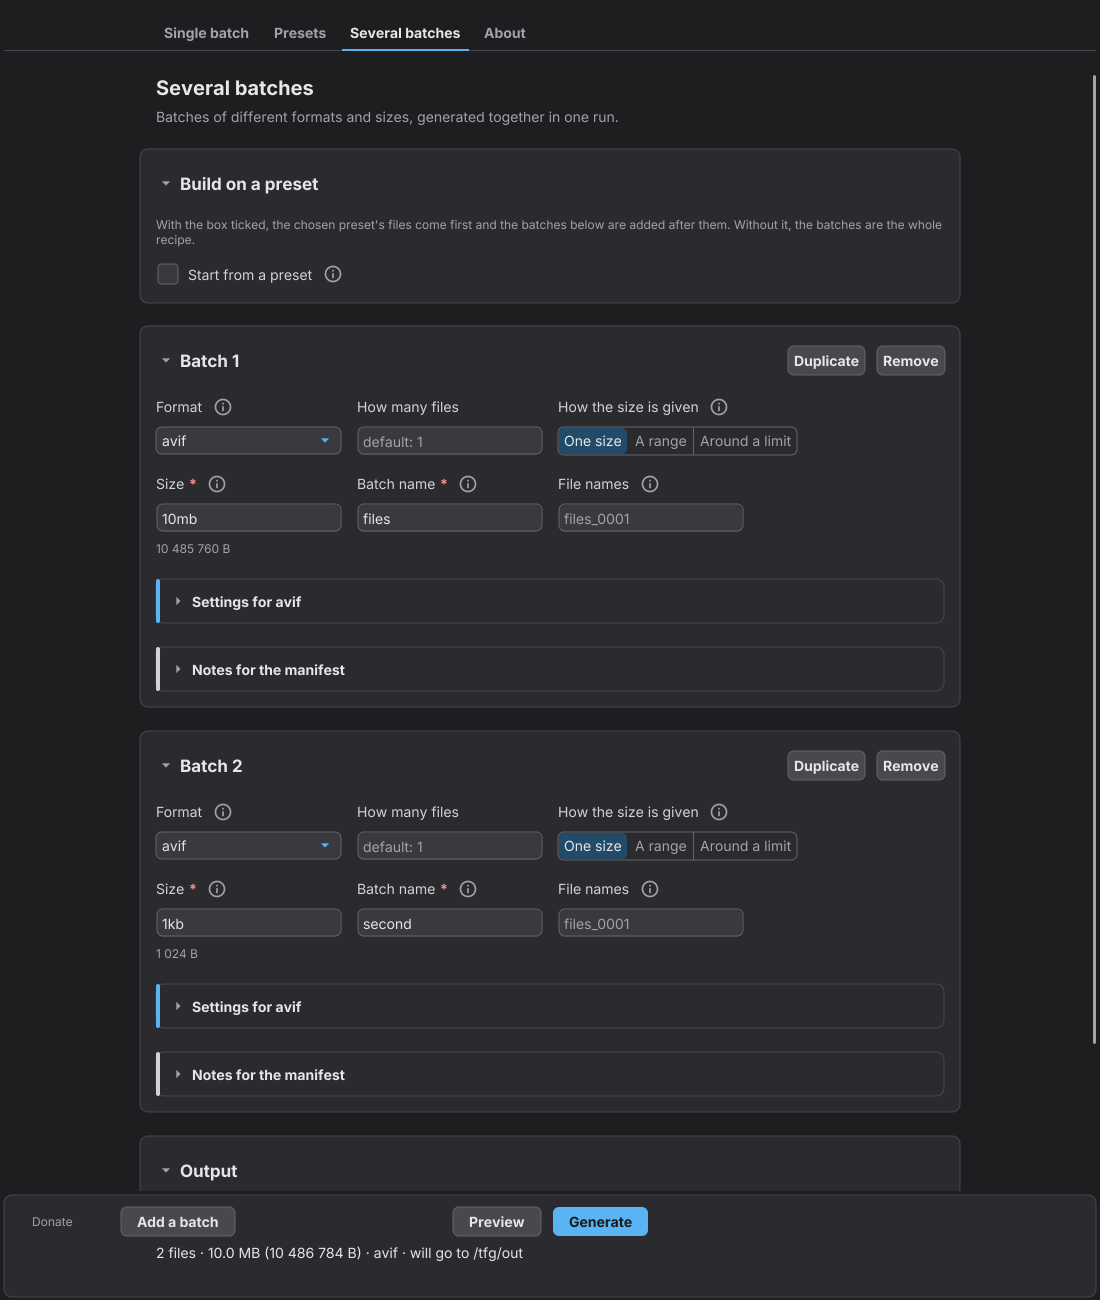
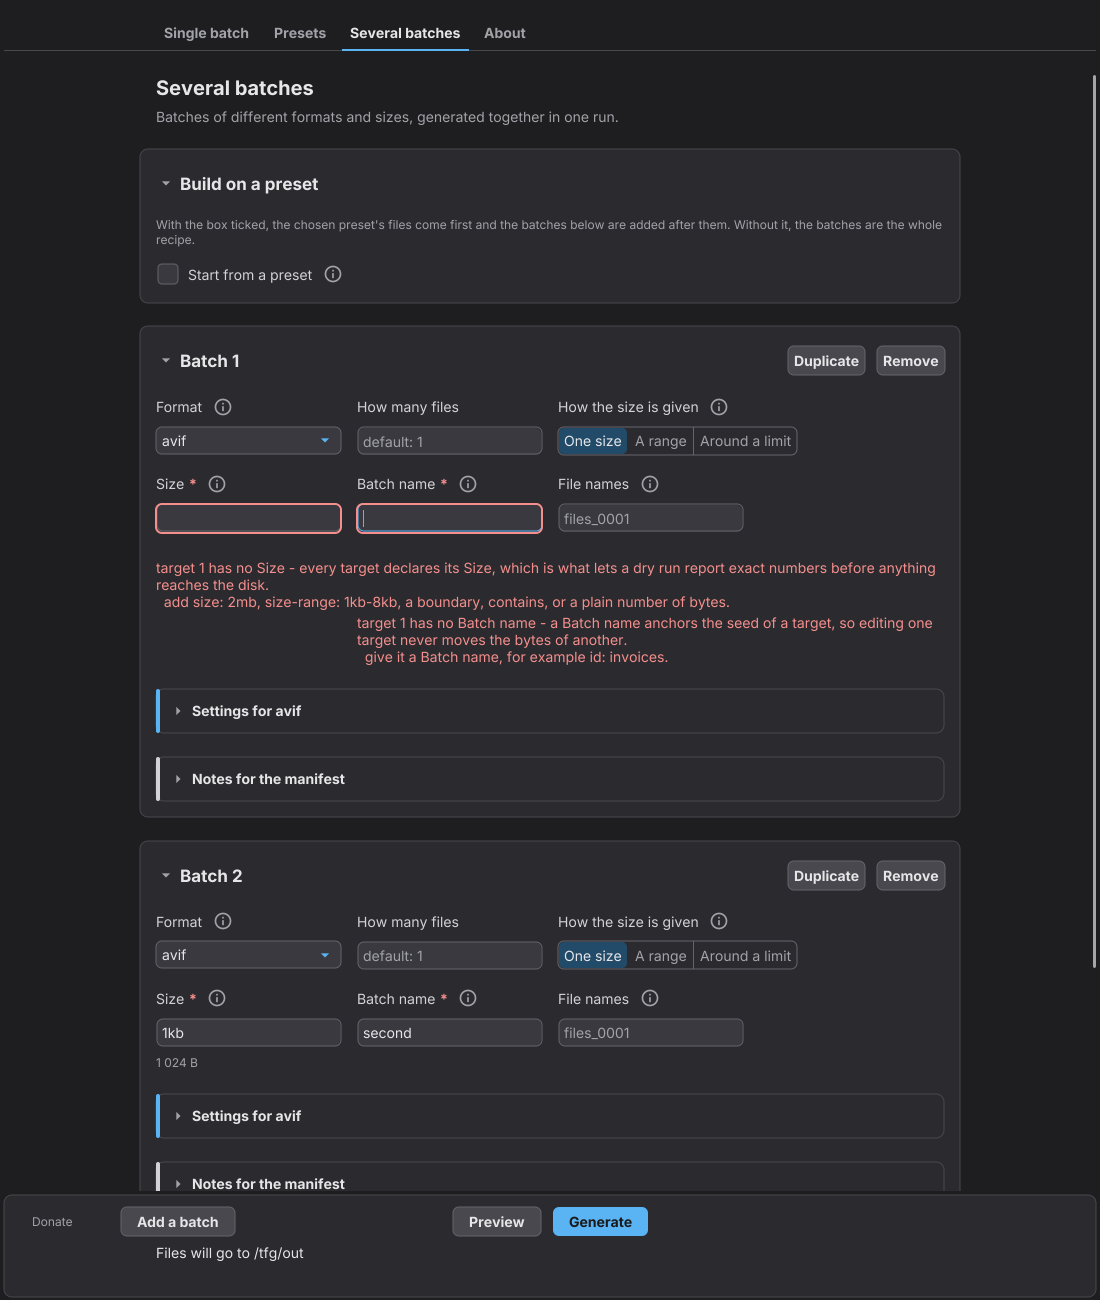
guard: the pictures named after a refusal show one again, and a nil field is reported rather than dereferenced
The batch screen opens with its first batch filled in since #125, so the
two scenes named recipe-refused pressed Preview on a recipe with nothing
wrong in it and stored a successful preview under that name. The scenes
now empty the first batch, and the runner refuses to store or compare a
picture named after a refusal whose tree carries no refusal. Four
comments still describing fields two to a row now describe the grid.

Found by CodeRabbit on #126.

diff --git a/internal/guard/screenpixels_test.go b/internal/guard/screenpixels_test.go
@@ -482,7 +482,16 @@ func screenScenes() []screenScene {
 		// size. Both marks belong to the first batch and both have to appear,
 		// which is the rule reported on 2026-08-18 - every bad box, not the
 		// first one.
+		//
+		// EMPTIED rather than assumed empty. The screen opens with its first
+		// batch filled in since #125, so from that day this scene pressed
+		// Preview on a recipe with nothing wrong in it and stored a picture of
+		// a successful preview under the name "refused" - green, and about
+		// nothing. Found by an outside review of #126 and confirmed on the
+		// stored tree: no refusal in it. The runner now refuses to store or
+		// compare a picture named after a refusal that shows none.
 		{name: "recipe-refused", tab: text.TabRecipe(), set: func(t *testing.T, s scene) {
+			emptyTheFirstBatch(t, s.tab)
 			pressNamed(t, s.tab, text.ButtonPreview())
 		}},
 		// One batch filled in and one not, so the marks are in one block and the
@@ -500,6 +509,9 @@ func screenScenes() []screenScene {
 			pressNamed(t, s.tab, text.ButtonAddBatch())
 			fillField(t, s.tab, text.FieldTargetID(), "second")
 			fillField(t, s.tab, text.FieldSize(), "1kb")
+			// The same repair as the scene above: the first batch arrives
+			// filled in, so it has to be emptied to be the one refused.
+			emptyTheFirstBatch(t, s.tab)
 			pressNamed(t, s.tab, text.ButtonPreview())
 		}},
 		// What an archive holds, which is the one nested repeating thing in this
@@ -577,6 +589,15 @@ func TestEveryScreenStillDrawsItsStoredPicture(t *testing.T) {
 	for _, sc := range screenScenes() {
 		t.Run(sc.name, func(t *testing.T) {
 			got, markup := renderScene(t, sc)
+			// Before anything is compared OR written, so a scene that stopped
+			// reaching its state cannot store a new reference of the wrong
+			// one. See showsARefusal.
+			if strings.Contains(sc.name, "refused") && !showsARefusal(markup) {
+				t.Fatalf("the picture %q is named after a refusal and the screen it drew refuses nothing.\n"+
+					"Reason: a scene that stops reaching its state stays green honestly - this one\n"+
+					"stored a successful preview as \"refused\" for a whole pull request (#125).\n"+
+					"What to do: make the scene put something wrong on the screen before it presses.", sc.name)
+			}
 			picture := filepath.Join("testdata", "screens", sc.name+".png")
 			tree := filepath.Join("testdata", "screens", sc.name+".xml")
 			if writing {
@@ -1239,4 +1260,39 @@ func writeText(t *testing.T, path, content string) {
 	if err := os.WriteFile(path, []byte(content), 0o644); err != nil {
 		t.Fatalf("%v", err)
 	}
+}
+
+// emptyTheFirstBatch clears the two boxes the first batch cannot do without,
+// by position rather than by label - two batches mean two boxes of each name,
+// and the first of them is the one this empties.
+func emptyTheFirstBatch(t *testing.T, o fyne.CanvasObject) {
+	t.Helper()
+	for _, label := range []string{text.FieldTargetID(), text.FieldSize()} {
+		boxes := entriesUnder(o, label)
+		if len(boxes) == 0 {
+			t.Fatalf("there is no %q box on this screen to empty", label)
+		}
+		boxes[0].SetText("")
+	}
+}
+
+// showsARefusal says whether a stored tree holds words in the error colour -
+// a refusal under a field or at the foot of the form. The star of a required
+// field is in the same colour and is on every screen at rest, so a text that
+// is only the star does not count.
+func showsARefusal(markup string) bool {
+	for _, line := range strings.Split(markup, "\n") {
+		if !strings.Contains(line, `color="error"`) || !strings.Contains(line, "<text") {
+			continue
+		}
+		start := strings.Index(line, ">")
+		end := strings.LastIndex(line, "</text>")
+		if start < 0 || end <= start {
+			continue
+		}
+		if words := strings.TrimSpace(line[start+1 : end]); words != "" && words != "*" {
+			return true
+		}
+	}
+	return false
 }

diff --git a/internal/gui/window/generate.go b/internal/gui/window/generate.go
@@ -376,9 +376,10 @@ func (g *Generate) settingsSection() []fyne.CanvasObject {
 				// moved there, so an empty detail here is what puts that line
 				// on screen at all.
 				g.tips.Say(""), g.formatPick),
-			// Two to a row since the prototype of 2026-09-23 (parts.Grid): the
-			// format and how big, how many and whether damaged, then what the
-			// group is called and what the files are called.
+			// In the grid's columns since the prototype of 2026-09-23
+			// (parts.Grid): the format, how big, how many and whether damaged
+			// share one row of four, then what the group is called and what
+			// the files are called.
 			add(format.SettingSize, text.FieldSize(), text.HintSize(), g.tips.Say(text.DetailSize()),
 				parts.Numeric(g.size)),
 			add(engine.SettingCount, text.FieldCount(), "", parts.NoDetail, parts.Numeric(g.count)),

diff --git a/internal/gui/window/recipe.go b/internal/gui/window/recipe.go
@@ -408,9 +408,10 @@ func (r *Recipe) batchBlock(index int, b *batch) fyne.CanvasObject {
 	// field label rather than as something to press.
 	var rows []fyne.CanvasObject
 
-	// Two to a row since the prototype of 2026-09-23 (parts.Grid): the format
-	// and how many, the way of saying how big and the box it leaves, then
-	// what the group is called and what the files are called.
+	// In the grid's columns since the prototype of 2026-09-23 (parts.Grid):
+	// the format, how many and the way of saying how big share the first row,
+	// and the box that way leaves shares the second with what the group is
+	// called and what the files are called.
 	rows = append(rows,
 		add(recipe.KeyFormat, text.FieldFormat(), text.HintFormat(),
 			// Empty for the reason the other screen gives: the button carries

diff --git a/internal/gui/parts/parts.go b/internal/gui/parts/parts.go
@@ -196,8 +196,9 @@ func Titled(name, sentence string) fyne.CanvasObject {
 // and a walk that does not know one type stops seeing every field below it,
 // which is exactly what happened when cards arrived.
 //
-// The content is a Grid since the prototype of 2026-09-23: fields two to a
-// row, anything else across the row.
+// The content is a Grid since the prototype of 2026-09-23: fields in
+// GridColumns columns, each taking the fewest columns that hold its value,
+// and anything else across the row.
 func Section(title string, content ...fyne.CanvasObject) fyne.CanvasObject {
 	return container.NewStack(panelSurface(), Padded(Inset, Column(GapField, sectionTitle(title), Grid(content...))))
 }

diff --git a/internal/guard/formcolumns_test.go b/internal/guard/formcolumns_test.go
@@ -130,7 +130,10 @@ func TestARefusalAboutWhatIsInTheDirectoryStandsUnderItAndOpensIt(t *testing.T) 
 	join(host)
 
 	field := screen.Fields().Lookup(engine.SettingOutDir)
-	if field == nil || !strings.Contains(field.Saying(), engine.DefaultManifestName) {
+	if field == nil {
+		t.Fatal("the screen registers no output directory field, so there is nothing to place the refusal under")
+	}
+	if !strings.Contains(field.Saying(), engine.DefaultManifestName) {
 		t.Fatalf("a manifest already in the directory was not refused under the output directory box - it says %q",
 			field.Saying())
 	}

diff --git a/internal/gui/window/preset.go b/internal/gui/window/preset.go
@@ -78,8 +78,8 @@ func NewPreset(host Host, links ...fyne.CanvasObject) *Preset {
 	// untouchable rule 5 and the one thing this screen must never take away.
 	p.fields.Require(engine.SettingOutDir, engine.SettingSeed)
 
-	// A grid, so a preset's settings stand two to a row like every other
-	// field (prototype of 2026-09-23).
+	// A grid, so each of a preset's settings takes the fewest of the grid's
+	// columns that hold it, like every other field (prototype of 2026-09-23).
 	p.paramBox = parts.Grid()
 	p.about = parts.FieldColumn()
 
